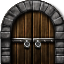
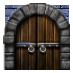
all images

diff --git a/src/Map.java b/src/Map.java
@@ -158,8 +158,8 @@ public class Map implements ImageObserver {
 					g.setColor(new Color((int) (225 - 225 * hp), (int) (hp * 150), (int) (hp * 100)));
 				} else if (level[i][j].toString().equals(".")) {
 					g.setColor(Color.WHITE);
-				}
-
+				} 
+				// sets images based on Tile
 				if (level[i][j].toString().equals(".")) {
 					Image image = Toolkit.getDefaultToolkit().getImage("src/floor.jpg");
 					// image from
@@ -171,16 +171,45 @@ public class Map implements ImageObserver {
 					// https://s3.envato.com/files/45171752/main2_590.JPG
 					g.drawImage(image, j * y, i * x, x, y, this);
 				} else if (level[i][j].toString().equals("+")) {
-					Image image = Toolkit.getDefaultToolkit().getImage("src/door.png");
+					Image image = Toolkit.getDefaultToolkit().getImage("src/closedoor.jpg");
 					// image from
 					// https://orig00.deviantart.net/a007/f/2012/074/7/6/rpg_maker_vx___gate_iv_by_ayene_chan-d4sutyi.png
 					g.drawImage(image, j * y, i * x, x, y, this);
 				} else if (level[i][j].toString().equals("'")) {
-					Image image = Toolkit.getDefaultToolkit().getImage("src/dooropen.png");
+					Image image = Toolkit.getDefaultToolkit().getImage("src/opendoor.jpg");
 					// image from
 					// https://orig00.deviantart.net/a007/f/2012/074/7/6/rpg_maker_vx___gate_iv_by_ayene_chan-d4sutyi.png
 					g.drawImage(image, j * y, i * x, x, y, this);
+				} else if (level[i][j].toString().equals("%")) {
+					Image image = Toolkit.getDefaultToolkit().getImage("src/potion.png");
+					// image from
+					// http://game-icons.net/tags/glass.html
+					g.drawImage(image, j * y, i * x, x, y, this);
+				}  else if (level[i][j].toString().equals("$")) {
+					Image image = Toolkit.getDefaultToolkit().getImage("src/scroll.png");
+					// image from
+					// http://game-icons.net/lorc/originals/tied-scroll.html
+					g.drawImage(image, j * y, i * x, x, y, this);
+				} else if (level[i][j].toString().equals("-")) {
+					Image image = Toolkit.getDefaultToolkit().getImage("src/wand.png");
+					// image from
+					// http://game-icons.net/tags/wand.html 
+					g.drawImage(image, j * y, i * x, x, y, this);
+				} else if (level[i][j].toString().equals("()")) {
+					Image image = Toolkit.getDefaultToolkit().getImage("src/armor.png");
+					// image from
+					// http://game-icons.net/tags/armor.html 
+					g.drawImage(image, j * y, i * x, x, y, this);
+				} else if (level[i][j].toString().equals("/")) {
+					Image image = Toolkit.getDefaultToolkit().getImage("src/weapon.png");
+					// image from
+					// http://game-icons.net/tags/blade.html
+					g.drawImage(image, j * y, i * x, x, y, this);
 				} else {
+					Image image = Toolkit.getDefaultToolkit().getImage("src/floor.jpg");
+					// image from
+					// http://www.dundjinni.com/forums/uploads/heruca/Dungeon_Floor_Tile_hrc.jpg
+					g.drawImage(image, j * y, i * x, x, y, this);
 					g.drawString(level[i][j].toString(), j * y + 5, i * x + 15);
 				}
 			}
